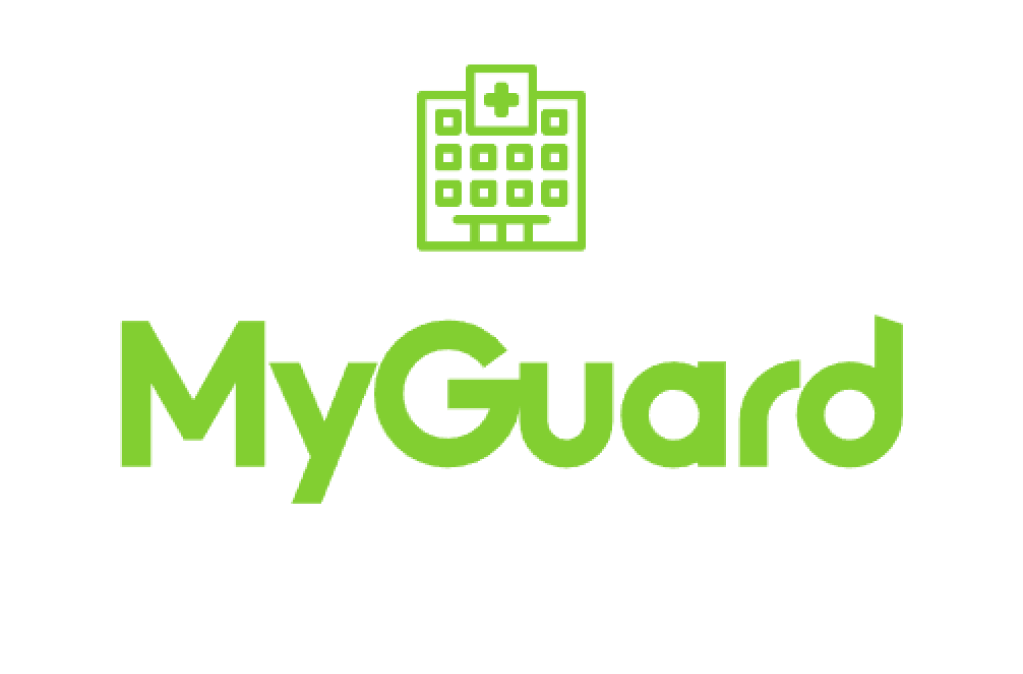
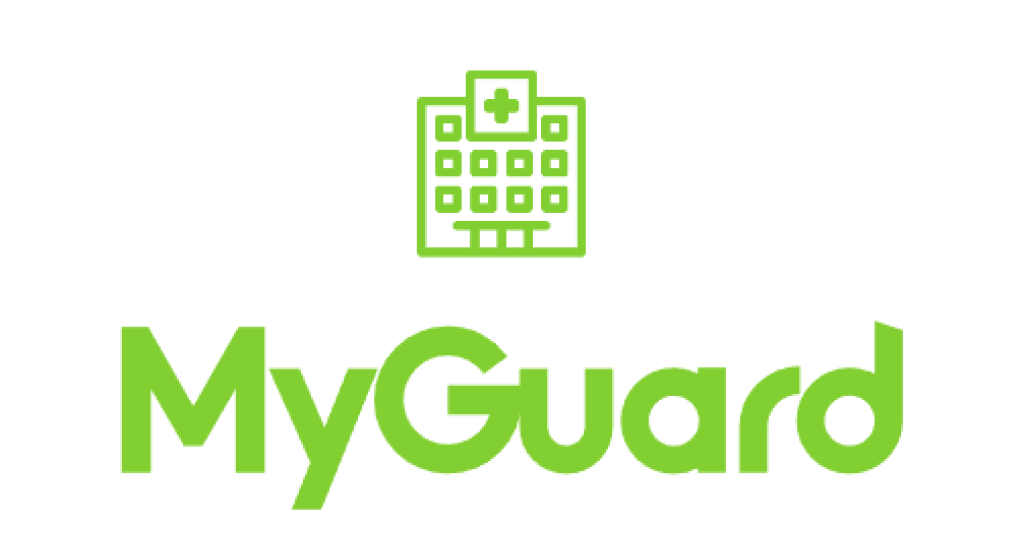
RefactoryLogo

Changed region(s): [[0.0909, 0.0896, 0.9091, 0.9552]]

diff --git a/frontend/src/components/util/Logo.jsx b/frontend/src/components/util/Logo.jsx
@@ -1,9 +1,10 @@
-import logo from '../../assets/img/myGuard.png'
+import logo from '../../assets/img/myGuard.png';
+import './logo.css';
 
 export const Logo = () => {
   return (
 
-      <img src={logo} alt="Logo de la app" />
+      <img src={logo} className='logo' alt="Logo de la app"/>
 
   )
 }

diff --git a/frontend/src/components/util/logo.css b/frontend/src/components/util/logo.css
@@ -1,0 +1,15 @@
+.logo{
+    width: 60%;
+    height: auto;
+    margin-bottom: 1rem;
+}
+@media (min-width: 769px) and (max-width: 1024px) {
+    .logo{
+        width: 65%;
+    }
+  }
+@media (min-width: 577px) and (max-width: 768px) {
+    .logo{
+        width: 95%;
+    }
+}
